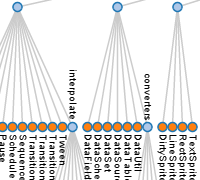
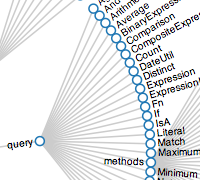
Cleanup tree example.
Also remove Brush + Link example from the interaction section. We'll just leave
this as the existing Anderson's Flowers example in the custom section.

diff --git a/www/ex/tree-full.html b/www/ex/tree-full.html
@@ -1,56 +1,43 @@
 <html>
   <head>
-    <title>Node-Link Tree Layout</title>
-    <link type="text/css" rel="stylesheet" href="../ex.css?3.1"/>
+    <title>Node-Link Tree</title>
+    <link type="text/css" rel="stylesheet" href="ex.css?3.1"/>
     <script type="text/javascript" src="../protovis-r3.2.js"></script>
     <script type="text/javascript" src="flare.js"></script>
     <style type="text/css">
-        #fig {
-            width: 1450px;
-            height: 640px;
-        }
+
+#fig {
+  width: 800px;
+  height: 700px;
+}
+
     </style>
   </head>
   <body><div id="center"><div id="fig">
     <script type="text/javascript+protovis">
 
-      function onNodeClick(node) {
-          var path = node.nodeName;
-          var parentNode = node.parentNode;
-          while(parentNode) {
-              path = parentNode.nodeName + "/" + path;
-              parentNode = parentNode.parentNode;
-          }
-          top.location = "http://svn.prefuse.org/flare/trunk/flare/flare/src/" + path + (node.firstChild?"/":".as");
-      }
+var vis = new pv.Panel()
+    .width(800)
+    .height(800)
+    .left(75)
+    .right(-75)
+    .top(-30)
+    .bottom(-80);
 
-      var vis = new pv.Panel()
-          .width(1450)
-          .height(600)
-          .top(40)
-          .right(400);
+var tree = vis.add(pv.Layout.Tree)
+    .nodes(pv.dom(flare).root("flare").nodes())
+    .depth(85)
+    .breadth(7.25)
+    .orient("radial");
 
-      var layout = vis.add(pv.Layout.Tree)
-          .nodes(pv.dom(flare)
-              .root("flare")
-              .sort(function(a, b) pv.naturalOrder(a.nodeName, b.nodeName))
-              .nodes())
-          .depth(120)
-          .breadth(10)
-          .orient("top")
-          .group(.5);
+tree.link.add(pv.Line);
 
-      layout.link.add(pv.Line);
+tree.node.add(pv.Dot)
+    .fillStyle(function(n) n.firstChild ? "#aec7e8" : "#ff7f0e");
 
-      layout.node.add(pv.Dot)
-          .fillStyle(function(n) n.firstChild ? "#aec7e8" : "#ff7f0e")
-          .title(function t(d) d.parentNode ? (t(d.parentNode) + "." + d.nodeName) : d.nodeName)
-          .event("click", onNodeClick);
-      
-      layout.label.add(pv.Label)
-          .textAngle(Math.PI / 2);
+tree.label.add(pv.Label);
 
-      vis.render();
+vis.render();
 
     </script>
   </div></div></body>

diff --git a/www/ex/index.html b/www/ex/index.html
@@ -179,10 +179,6 @@
         <img src="minnesota-sm.png?3.2" width="200" height="180">
         Details-on-Demand
       </a>
-      <a href="cars.html" class="item">
-        <img src="cars-sm.png?3.2" width="200" height="180">
-        Brush + Link <!-- include Flowers SPLOM -->
-      </a>
       <a href="zoom.html" class="item">
         <img src="zoom-sm.png?3.2" width="200" height="180">
         Focus + Context
@@ -230,7 +226,7 @@
       </a>
       <a href="tree.html" class="item">
         <img src="tree-sm.png?3.2" width="200" height="180">
-        Tree
+        Node-Link Tree
       </a>
       <a href="treemap.html" class="item">
         <img src="treemap-sm.png?3.2" width="200" height="180">
